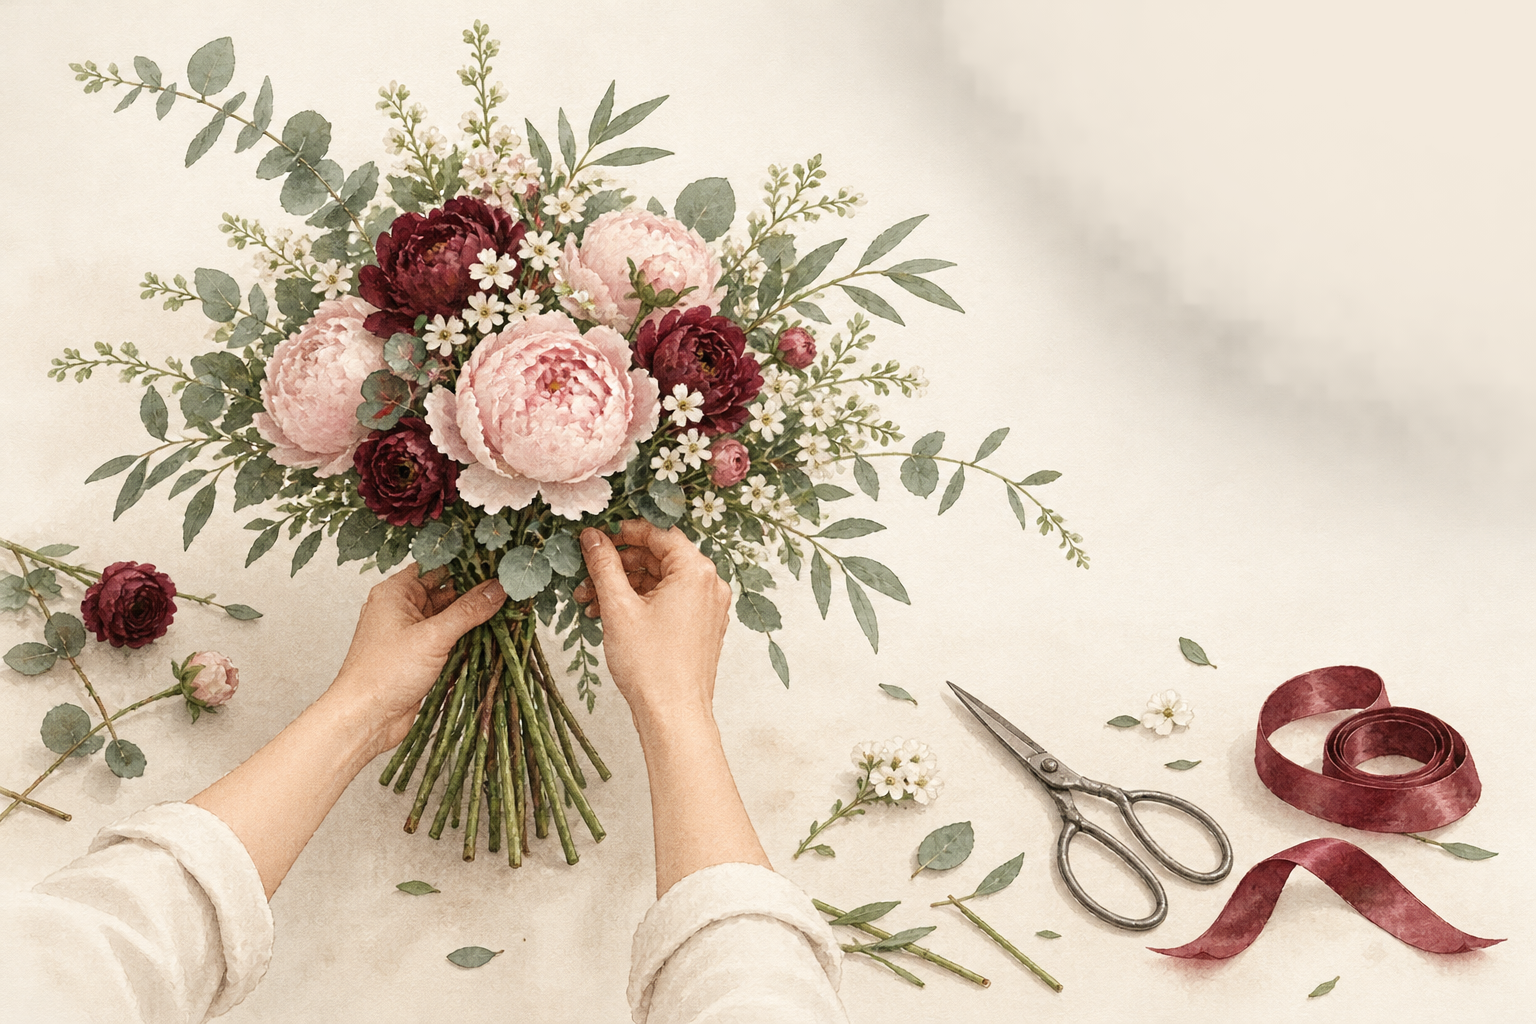
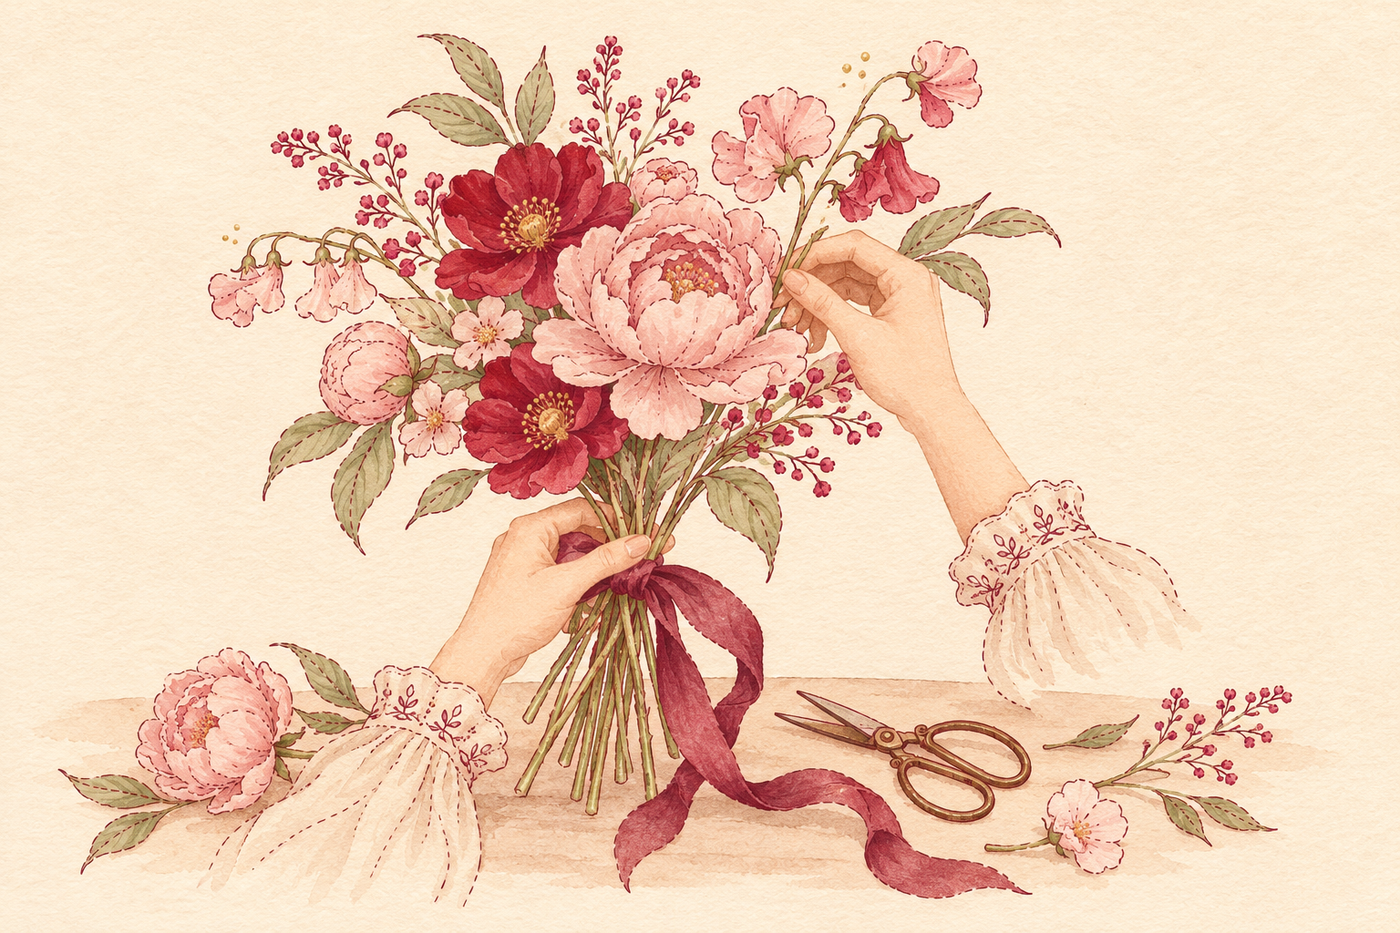
Add final illustrations and wire them in
Processed the delivered set (aligned the five flower stages, trimmed, compressed,
D1 made transparent). Added favicon from the logo mark, divider after the story,
petals in the quote band, pattern behind contact. Fixed mobile garland overlap,
footer flourish size and story frame.

Claude-Session: https://claude.ai/code/session_01NhWuTjxjk5ENvDjqZZi3Tz

diff --git a/src/styles/sections.css b/src/styles/sections.css
@@ -158,14 +158,14 @@
   flex: 1;
   min-height: 0;
   width: 100%;
-  padding-top: 7%;
+  padding-top: var(--arch-top, 17%);
 }
 .arch {
   position: absolute;
   bottom: 0;
   left: 50%;
   transform: translateX(-50%);
-  height: calc(100% - 7%);
+  height: calc(100% - var(--arch-top, 17%));
   aspect-ratio: 3 / 4.1;
   max-width: 90%;
 }
@@ -275,9 +275,9 @@
     max-width: 11ch;
   }
   .hero__flower {
+    --arch-top: 9%;
     height: 100%;
     align-self: stretch;
-    padding-top: 6%;
   }
   .hero__hint {
     display: flex;
@@ -300,7 +300,7 @@
 
 .frame {
   position: relative;
-  padding: 8%;
+  padding: 3%;
   background: radial-gradient(80% 70% at 50% 60%, #fff7f3, var(--blush));
   border-radius: 6px;
   box-shadow: inset 0 0 0 1px var(--gold), 0 0 0 10px var(--ivory), 0 0 0 11px rgba(180, 138, 74, 0.6);
@@ -308,7 +308,8 @@
 .frame > img:not(.frame__corner) {
   width: 100%;
   aspect-ratio: 3 / 2;
-  object-fit: contain;
+  object-fit: cover;
+  border-radius: 3px;
 }
 .frame__corner {
   position: absolute;
@@ -759,4 +760,47 @@
   50% {
     transform: scale(1.04);
   }
+}
+
+/* ---------- Extra decorative pieces ---------- */
+.story__divider {
+  width: min(900px, 100%);
+  height: auto;
+  margin: calc(var(--space-block) + 24px) auto 0;
+}
+.quote__petals {
+  position: absolute;
+  right: -4%;
+  bottom: -6%;
+  width: min(520px, 55%);
+  height: auto;
+  opacity: 0.55;
+  pointer-events: none;
+  animation: petalsFloat 14s ease-in-out infinite alternate;
+}
+@keyframes petalsFloat {
+  from {
+    transform: translate3d(0, 0, 0) rotate(-2deg);
+  }
+  to {
+    transform: translate3d(-14px, -18px, 0) rotate(2deg);
+  }
+}
+.contact {
+  position: relative;
+}
+.contact::before {
+  content: "";
+  position: absolute;
+  inset: 0;
+  background: url("/images/e2-pattern.png") center / 420px auto;
+  opacity: 0.28;
+  pointer-events: none;
+}
+.contact > .container {
+  position: relative;
+}
+.value__icon {
+  width: 84px;
+  height: 84px;
 }

diff --git a/src/components/Quote.tsx b/src/components/Quote.tsx
@@ -1,10 +1,12 @@
 import { quote } from "../content";
 import Reveal from "./ui/Reveal";
+import Illustration from "./ui/Illustration";
 import { Flourish, Seal } from "./Ornaments";
 
 export default function Quote() {
   return (
     <section className="quote" aria-label="Citation">
+      <Illustration name="e3-petals" className="quote__petals" />
       <Reveal className="container quote__inner">
         <Seal size={84} className="quote__seal" />
         <p>{quote.text}</p>

diff --git a/index.html b/index.html
@@ -8,7 +8,7 @@
     <meta property="og:title" content="Sam Flowers" />
     <meta property="og:description" content="Des fleurs choisies et composées à la main, avec délicatesse." />
     <meta property="og:type" content="website" />
-    <link rel="icon" type="image/svg+xml" href="/favicon.svg" />
+    <link rel="icon" type="image/png" href="/favicon.png" />
     <title>Sam Flowers — Fleurs composées à la main</title>
   </head>
   <body>

diff --git a/src/components/Footer.tsx b/src/components/Footer.tsx
@@ -4,7 +4,7 @@ import { Flourish } from "./Ornaments";
 export default function Footer() {
   return (
     <footer className="footer">
-      <Flourish className="footer__flourish" />
+      <Flourish className="flourish footer__flourish" />
       <div className="container footer__inner">
         <span className="footer__logo">
           Sam <em>Flowers</em>

diff --git a/src/components/Story.tsx b/src/components/Story.tsx
@@ -26,6 +26,9 @@ export default function Story() {
           </div>
         </Reveal>
       </div>
+      <Reveal className="container">
+        <Illustration name="e1-divider" className="story__divider" />
+      </Reveal>
     </section>
   );
 }

diff --git a/docs/08-illustration-prompts.md b/docs/08-illustration-prompts.md
@@ -6,11 +6,13 @@ Prerequisite: the project instructions from `07-illustration-project-context.md`
 ChatGPT only makes 1:1, 2:3 and 3:2, so every ratio below is one of those (I crop where needed).
 
 ## Status
-- [x] A1 done (`a1-sprout.png`)
-- [x] C1 done (`c1-hands.png`, flattened onto cream)
-- [x] D1 done (generated, needs to be saved as `d1-icon-fresh.png`)
-- [x] D2 approved (scissors + peony), file not uploaded yet
-- [ ] everything else below
+All illustrations are delivered and placed in `public/images/` (processed: trimmed, compressed, flower stages aligned on one stem, D1 background made transparent).
+
+Versions chosen from the zip:
+- B1: `B1-1` (the clean one; `B1-2` had a dirty faded edge)
+- C1: `C3-3` (stitched-sleeve scene, fully opaque; `C1-1` and `C2-2` had faded transparent edges)
+- C2: `C2` (bucket still life; not used on the page yet)
+- A4 was scaled up 20% so the stem height matches the other stages.
 
 ---
 
@@ -147,22 +149,22 @@ A garland of flowers and sage leaves arranged along a semicircular arch (like th
 
 ## Delivery checklist
 - [x] A1 `a1-sprout.png`
-- [ ] A2 `a2-bud.png`
-- [ ] A3 `a3-opening.png`
-- [ ] A4 `a4-half-open.png`
-- [ ] A5 `a5-bloom.png`
-- [ ] B1 `b1-pivoines.png`
-- [ ] B2 `b2-roses.png`
-- [ ] B3 `b3-renoncules.png`
-- [ ] B4 `b4-tulipes.png`
-- [ ] B5 `b5-anemones.png`
+- [x] A2 `a2-bud.png`
+- [x] A3 `a3-opening.png`
+- [x] A4 `a4-half-open.png`
+- [x] A5 `a5-bloom.png`
+- [x] B1 `b1-pivoines.png`
+- [x] B2 `b2-roses.png`
+- [x] B3 `b3-renoncules.png`
+- [x] B4 `b4-tulipes.png`
+- [x] B5 `b5-anemones.png`
 - [x] C1 `c1-hands.png`
 - [x] D1 generated (save as `d1-icon-fresh.png`)
 - [x] D2 `d2-icon-handmade.png`
-- [ ] D3 `d3-icon-gift.png`
-- [ ] E1 `e1-divider.png`
-- [ ] E2 `e2-pattern.png`
-- [ ] E3 `e3-petals.png`
-- [ ] F1 `f1-logo.png`
-- [ ] G1 `g1-corner.png`
-- [ ] G2 `g2-arch-garland.png`
+- [x] D3 `d3-icon-gift.png`
+- [x] E1 `e1-divider.png`
+- [x] E2 `e2-pattern.png`
+- [x] E3 `e3-petals.png`
+- [x] F1 `f1-logo.png`
+- [x] G1 `g1-corner.png`
+- [x] G2 `g2-arch-garland.png`

diff --git a/docs/README.md b/docs/README.md
@@ -13,4 +13,4 @@ Planning documents for the v1 landing page.
 | [07-illustration-project-context.md](07-illustration-project-context.md) | Text to paste in the ChatGPT project instructions |
 | [08-illustration-prompts.md](08-illustration-prompts.md) | Prompts to paste one by one, with file names |
 
-Status: v1 landing page built with placeholder illustrations (branch `feat/landing-v1`). Waiting for the real illustrations.
+Status: v1 landing page built with the real illustrations (branch `feat/landing-v1`). Placeholders remain only as fallbacks.
